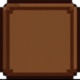
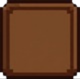
update

Changed region(s): [[0.9, 0.8861, 1.0, 1.0], [0.0, 0.8861, 0.1, 1.0], [0.925, 0.8608, 0.95, 0.8861]]

diff --git a/Pusawan-main/Pusawan/Fishing.java b/Pusawan-main/Pusawan/Fishing.java
@@ -67,10 +67,10 @@ public class Fishing extends JPanel {
         background.add(inventoryButton);
 
         //INDEX BUTTON
-        JButton indexButton = new JButton("Index");
-        indexButton.setBounds(20, 620, 80, 30);
-        indexButton.addActionListener(e -> FishIndex.toggle()); 
-        background.add(indexButton);
+        // JButton indexButton = new JButton("Index");
+        // indexButton.setBounds(20, 620, 80, 30);
+        // indexButton.addActionListener(e -> FishIndex.toggle()); 
+        // background.add(indexButton);
 
         cancelButton = new JButton("Cancel");
         cancelButton.setBounds(20, 460, 100, 40);